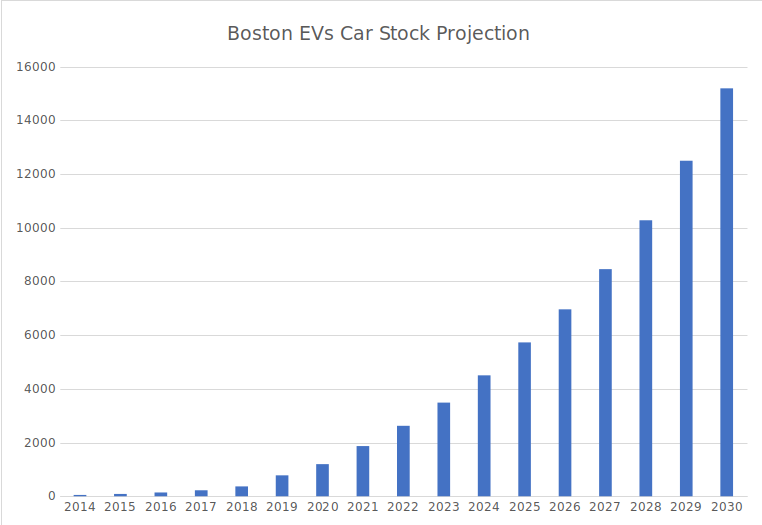
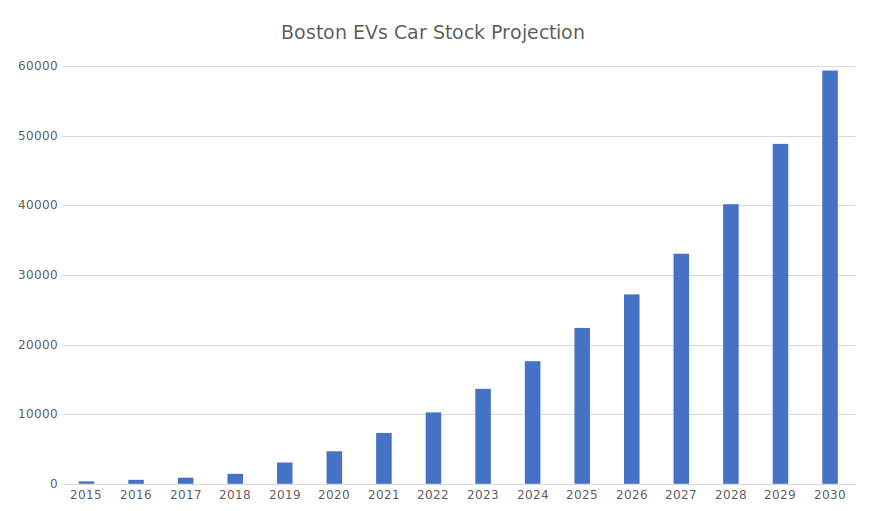
modification on EVs prediction number and env benefit page

diff --git a/env_benefits.html b/env_benefits.html
@@ -61,9 +61,9 @@
 <div class="w3-row-padding w3-padding-64 w3-container">
   <div class="w3-content">
       <h1>Future projections of EVs in Boston</h1>
-      <h4 class="w3-padding-16">In Boston, electric vehicles are projected to grow up to 50,000 if they follow the global projection.</h4>
+      <h4 class="w3-padding-16">In Boston, electric vehicles are projected to grow up to 59,000 if they follow the global projection.</h4>
 
-      <p class="w3-text-grey">In 2014, there are only 51 electric vehicles in Boston. However, according to the Global EV Outlook 2019, the number of EVs stock is going to constantly increase. In case of the EV30@30 Scenario that set the objective to reach a 30% sales share for EVs by 2030, the numbe will reach almost 300% of the stock of 2014. If Boston succeed to follow the expansion, the EVs in the city will exceed 15 thousand. </p>
+      <p class="w3-text-grey">The "Vision and Action Plan GO BOSTON 2030" shows that there are only 351 electric vehicles in Boston, 2014. However, according to the Global EV Outlook 2019, the number of EVs stock is going to constantly increase. In case of the EV30@30 Scenario that set the objective to reach a 30% sales share for EVs by 2030, the numbe will reach almost 200 times of the stock of 2015. If Boston succeed to follow the expansion, the EVs in the city will exceed 16.9 thousand. Furthermore, given the Boston is a metropolitan city where has faster growth potential than the average of world. In fact, an estimation by the International Council on Clean Transportation shows more ambitious predictions. </p>
 
       <div>
       <img src= "images/evs_number_projection.png"></img></div>      
